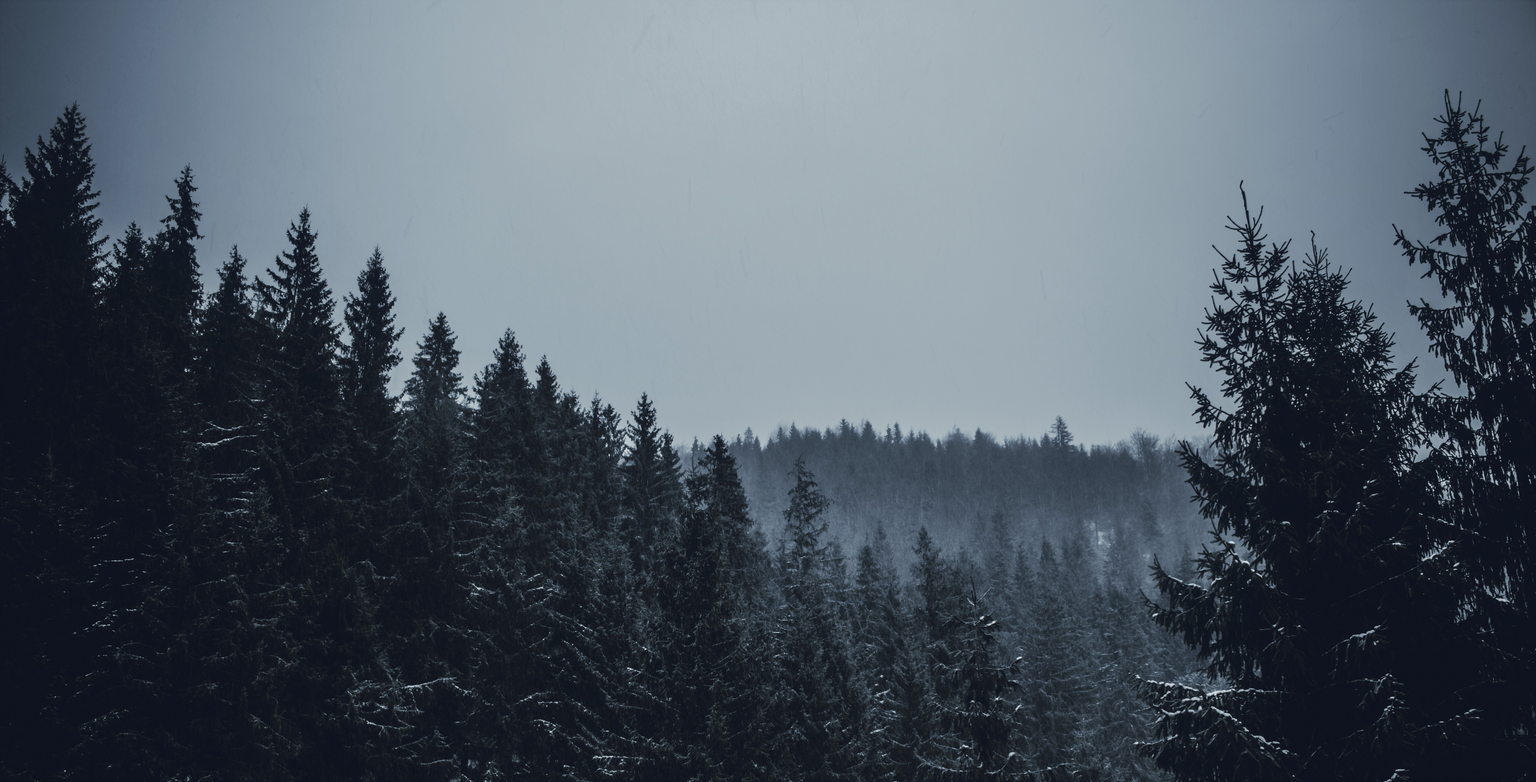
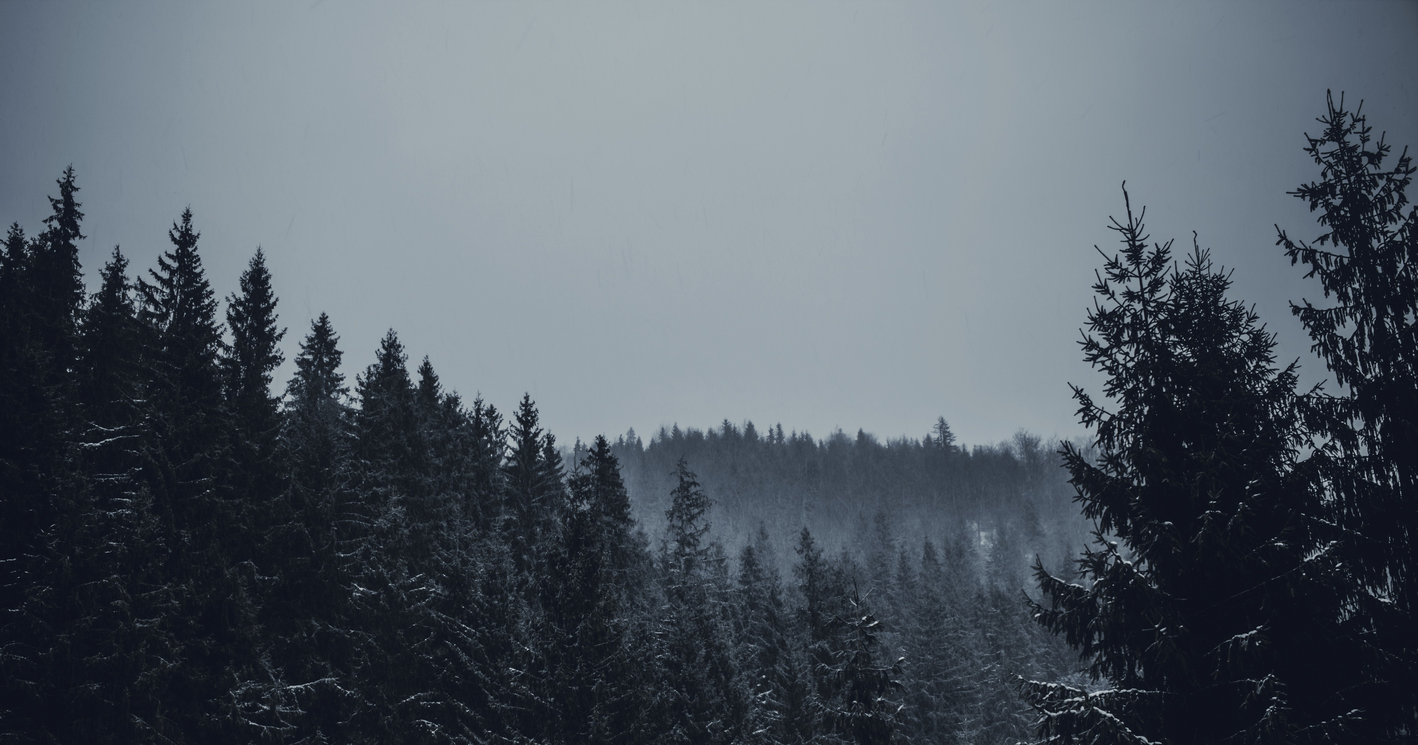
Updated link color scheme

diff --git a/css/grayscale.min.css b/css/grayscale.min.css
@@ -2,4 +2,4 @@
  * Start Bootstrap - Grayscale v4.0.0-beta.2 (https://startbootstrap.com/template-overviews/grayscale)
  * Copyright 2013-2017 Start Bootstrap
  * Licensed under MIT (https://github.com/BlackrockDigital/startbootstrap-grayscale/blob/master/LICENSE)
- */body,html{height:100%;width:100%}#mainNav,body{background-color:#000}#mainNav a,body{color:#fff}.masthead,body,html{width:100%}body{font-family:Lora,'Helvetica Neue',Helvetica,Arial,sans-serif;position:relative;-webkit-tap-highlight-color:rgba(255,255,255,.2)}#mainNav,.btn,h1,h2,h3,h4,h5,h6{font-family:Cabin,'Helvetica Neue',Helvetica,Arial,sans-serif;text-transform:uppercase}h1,h2,h3,h4,h5,h6{font-weight:700;margin:0 0 35px;letter-spacing:1px}p{font-size:16px;line-height:1.5;margin:0 0 25px}@media (min-width:768px){p{font-size:18px;line-height:1.6;margin:0 0 35px}}a{-webkit-transition:all .2s ease-in-out;-moz-transition:all .2s ease-in-out;transition:all .2s ease-in-out;color:#42DCA3}a:focus,a:hover{text-decoration:none;color:#ffff}#mainNav{margin-bottom:0;border-bottom:1px solid rgba(255,255,255,.3)}#mainNav .navbar-nav .nav-item:active,#mainNav .navbar-nav .nav-item:focus,#mainNav .navbar-nav .nav-item:hover{background-color:transparent;outline:0}#mainNav .navbar-toggler{font-size:14px;padding:11px;color:#fff;border:1px solid #fff}#mainNav .navbar-brand{font-weight:700}#mainNav .navbar-nav .nav-item{-webkit-transition:background .3s ease-in-out;-moz-transition:background .3s ease-in-out;transition:background .3s ease-in-out}#mainNav .navbar-nav .nav-item:hover{color:fade(white,80%)}@media (min-width:992px){#mainNav{padding-top:20px;padding-bottom:20px;-webkit-transition:background .3s ease-in-out,padding-top .3s ease-in-out,padding-bottom .3s;-moz-transition:background .3s ease-in-out,padding-top .3s ease-in-out,padding-bottom .3s;transition:background .3s ease-in-out,padding-top .3s ease-in-out,padding-bottom .3s;letter-spacing:1px;border-bottom:none;background:0 0}#mainNav.navbar-shrink{padding-top:10px;padding-bottom:10px;border-bottom:1px solid rgba(255,255,255,.3);background:#000}#mainNav .nav-link.active{outline:0;background-color:rgba(255,255,255,.3)}#mainNav .nav-link.active:hover{color:#fff}}.masthead{display:table;height:auto;padding:200px 0;text-align:center;color:#fff;background:url(../img/fineas-anton-180751.jpg) bottom center no-repeat #000;-webkit-background-size:cover;-moz-background-size:cover;-o-background-size:cover;background-size:cover}.masthead .intro-body{display:table-cell;vertical-align:middle}.masthead .intro-body .brand-heading{font-size:50px}.masthead .intro-body .intro-text{font-size:18px}@media (min-width:768px){.masthead{height:100%;padding:0}.masthead .intro-body .brand-heading{font-size:100px}.masthead .intro-body .intro-text{font-size:22px}}.btn-circle{font-size:26px;width:55px;height:55px;margin-top:15px;line-height:45px;-webkit-transition:background .3s ease-in-out;-moz-transition:background .3s ease-in-out;transition:background .3s ease-in-out;color:#fff;border:2px solid #fff;border-radius:100%!important;background:0 0}.btn-circle:focus,.btn-circle:hover{color:#fff;outline:0;background:rgba(255,255,255,.1)}.content-section{padding-top:150px;padding-bottom:150px}.contact-section{color:#fff;background:url(../img/carl-cerstrand-136807.jpg) center center no-repeat #000;-webkit-background-size:cover;-moz-background-size:cover;-o-background-size:cover;background-size:cover}#map{width:100%;height:300px}@media (min-width:992px){.content-section{padding-top:200px;padding-bottom:200px}#map{height:350px}}.btn{font-weight:400;-webkit-transition:all .3s ease-in-out;-moz-transition:all .3s ease-in-out;transition:all .3s ease-in-out;border-radius:0}.btn-default{color:#42DCA3;border:1px solid #42DCA3;background-color:transparent}.btn-default:focus,.btn-default:hover{color:#000;border:1px solid #42DCA3;outline:0;background-color:#42DCA3}ul.banner-social-buttons{margin-top:0}@media (max-width:1199px){ul.banner-social-buttons{margin-top:15px}}@media (max-width:767px){ul.banner-social-buttons li{display:block;margin-bottom:20px;padding:0}ul.banner-social-buttons li:last-child{margin-bottom:0}}footer{padding:50px 0}footer p{font-size:14px;margin:0}::-moz-selection{background:#fcfcfc;background:rgba(255,255,255,.2);text-shadow:none}::selection{background:#fcfcfc;background:rgba(255,255,255,.2);text-shadow:none}img::selection{background:0 0}img::-moz-selection{background:0 0}
+ */body,html{height:100%;width:100%}#mainNav,body{background-color:#000}#mainNav a,body{color:#fff}.masthead,body,html{width:100%}body{font-family:Lora,'Helvetica Neue',Helvetica,Arial,sans-serif;position:relative;-webkit-tap-highlight-color:rgba(255,255,255,.2)}#mainNav,.btn,h1,h2,h3,h4,h5,h6{font-family:Cabin,'Helvetica Neue',Helvetica,Arial,sans-serif;text-transform:uppercase}h1,h2,h3,h4,h5,h6{font-weight:700;margin:0 0 35px;letter-spacing:1px}p{font-size:16px;line-height:1.5;margin:0 0 25px}@media (min-width:768px){p{font-size:18px;line-height:1.6;margin:0 0 35px}}a{-webkit-transition:all .2s ease-in-out;-moz-transition:all .2s ease-in-out;transition:all .2s ease-in-out;color:#e05031}a:focus,a:hover{text-decoration:none;color:#ffff}b{-webkit-transition:all .2s ease-in-out;-moz-transition:all .2s ease-in-out;transition:all .2s ease-in-out;color:#000;font-size:18px}b:focus,b:hover{text-decoration:none;color:#e05031;font-size:18px}#mainNav{margin-bottom:0;border-bottom:1px solid rgba(255,255,255,.3)}#mainNav .navbar-nav .nav-item:active,#mainNav .navbar-nav .nav-item:focus,#mainNav .navbar-nav .nav-item:hover{background-color:transparent;outline:0}#mainNav .navbar-toggler{font-size:14px;padding:11px;color:#fff;border:1px solid #fff}#mainNav .navbar-brand{font-weight:700}#mainNav .navbar-nav .nav-item{-webkit-transition:background .3s ease-in-out;-moz-transition:background .3s ease-in-out;transition:background .3s ease-in-out}#mainNav .navbar-nav .nav-item:hover{color:fade(white,80%)}@media (min-width:992px){#mainNav{padding-top:20px;padding-bottom:20px;-webkit-transition:background .3s ease-in-out,padding-top .3s ease-in-out,padding-bottom .3s;-moz-transition:background .3s ease-in-out,padding-top .3s ease-in-out,padding-bottom .3s;transition:background .3s ease-in-out,padding-top .3s ease-in-out,padding-bottom .3s;letter-spacing:1px;border-bottom:none;background:0 0}#mainNav.navbar-shrink{padding-top:10px;padding-bottom:10px;border-bottom:1px solid rgba(255,255,255,.3);background:#000}#mainNav .nav-link.active{outline:0;background-color:rgba(255,255,255,.3)}#mainNav .nav-link.active:hover{color:#fff}}.masthead{display:table;height:auto;padding:200px 0;text-align:center;color:#fff;background:url(../img/carl-cerstrand-136807.jpg) bottom center no-repeat #000;-webkit-background-size:cover;-moz-background-size:cover;-o-background-size:cover;background-size:cover}.masthead .intro-body{display:table-cell;vertical-align:middle}.masthead .intro-body .brand-heading{font-size:50px}.masthead .intro-body .intro-text{font-size:18px}@media (min-width:768px){.masthead{height:100%;padding:0}.masthead .intro-body .brand-heading{font-size:100px}.masthead .intro-body .intro-text{font-size:22px}}.btn-circle{font-size:26px;width:55px;height:55px;margin-top:15px;line-height:45px;-webkit-transition:background .3s ease-in-out;-moz-transition:background .3s ease-in-out;transition:background .3s ease-in-out;color:#fff;border:2px solid #fff;border-radius:100%!important;background:0 0}.btn-circle:focus,.btn-circle:hover{color:#fff;outline:0;background:rgba(255,255,255,.1)}.content-section{padding-top:150px;padding-bottom:150px}.contact-section{color:#fff;background:url(../img/fineas-anton-180751.jpg) center center no-repeat #000;-webkit-background-size:cover;-moz-background-size:cover;-o-background-size:cover;background-size:cover}#map{width:100%;height:300px}@media (min-width:992px){.content-section{padding-top:200px;padding-bottom:200px}#map{height:350px}}.btn{font-weight:400;-webkit-transition:all .3s ease-in-out;-moz-transition:all .3s ease-in-out;transition:all .3s ease-in-out;border-radius:0}.btn-default{color:#fff;border:1px solid #000;background-color:#000}.btn-default:focus,.btn-default:hover{color:#fff;border:1px solid #e05031;outline:0;background-color:#e05031}ul.banner-social-buttons{margin-top:0}@media (max-width:1199px){ul.banner-social-buttons{margin-top:15px}}@media (max-width:767px){ul.banner-social-buttons li{display:block;margin-bottom:20px;padding:0}ul.banner-social-buttons li:last-child{margin-bottom:0}}footer{padding:50px 0}footer p{font-size:14px;margin:0}::-moz-selection{background:#fcfcfc;background:rgba(255,255,255,.2);text-shadow:none}::selection{background:#fcfcfc;background:rgba(255,255,255,.2);text-shadow:none}img::selection{background:0 0}img::-moz-selection{background:0 0}

diff --git a/index.html b/index.html
@@ -21,7 +21,7 @@
     <link href='https://fonts.googleapis.com/css?family=Cabin:700' rel='stylesheet' type='text/css'>
 
     <!-- Custom styles for this template -->
-    <link href="css/grayscale.min.css" rel="stylesheet">
+    <link href="css/grayscale.css" rel="stylesheet">
 
   </head>
 
@@ -42,6 +42,9 @@
             </li>
             <li class="nav-item">
               <a class="nav-link js-scroll-trigger" href="#contact">Contact</a>
+            </li>
+            <li class="nav-item">
+              <a class="nav-link js-scroll-trigger" href="Losaunne White_Resume.pdf">Resume</a>
             </li>
             <!-- <li class="nav-item">
               <a class="nav-link js-scroll-trigger" href="#blog">Blog</a>
@@ -83,6 +86,19 @@
       </div>
     </section>
 
+    <!-- <section id="toolkit" class="content-section text-center">
+      <div class="container">
+        <div class="row">
+          <div class="col-lg-8 mx-auto">
+            <h2>About</h2>
+            <p>Currently working as a marketing analyst at Backcountry.com, I'm interested in answering interesting, difficult problems with a data-driven approach.
+                With my background in math and computer science, and my newly acquired fascination with large datasets, I'm a valuable resource for anyone looking to gather insights
+                and make decisions from data. Find my full resume <a href="Losaunne White_Resume.pdf">here</a>.</p>
+          </div>
+        </div>
+      </div>
+    </section> -->
+
     <!-- want to add a toolkit, as well as a blog section -->
 
     <!-- Contact Section -->
@@ -90,7 +106,7 @@
       <div class="container">
         <div class="col-lg-8 mx-auto">
           <h2>Get in touch</h2>
-          <a href="mailto:losaunne.white@gmail.com">losaunne.white@gmail.com</a>
+          <b href="mailto:losaunne.white@gmail.com">losaunne.white@gmail.com</b>
           <ul class="list-inline banner-social-buttons">
             <li class="list-inline-item">
               <a href="https://www.linkedin.com/in/losaunne-white/" class="btn btn-default btn-lg">
@@ -147,7 +163,7 @@
     <!-- Footer -->
     <footer>
       <div class="container text-center">
-        <!-- <p>Copyright &copy; losaunne 2017</p> -->
+        <p>updated december 2017</p>
       </div>
     </footer>
 

diff --git a/css/grayscale.css b/css/grayscale.css
@@ -41,10 +41,21 @@ a {
   -webkit-transition: all 0.2s ease-in-out;
   -moz-transition: all 0.2s ease-in-out;
   transition: all 0.2s ease-in-out;
-  color: #42DCA3; }
+  color: #e05031; }
   a:focus, a:hover {
     text-decoration: none;
     color: #ffff; }
+
+b {
+  -webkit-transition: all 0.2s ease-in-out;
+  -moz-transition: all 0.2s ease-in-out;
+  transition: all 0.2s ease-in-out;
+  color: black;
+  font-size: 18px; }
+  b:focus, b:hover {
+    text-decoration: none;
+    color: #e05031;
+    font-size: 18px; }
 
 #mainNav {
   font-family: 'Cabin', 'Helvetica Neue', Helvetica, Arial, sans-serif;
@@ -100,7 +111,7 @@ a {
   padding: 200px 0;
   text-align: center;
   color: white;
-  background: url("../img/fineas-anton-180751.jpg") no-repeat bottom center scroll;
+  background: url("../img/carl-cerstrand-136807.jpg") no-repeat bottom center scroll;
   background-color: black;
   -webkit-background-size: cover;
   -moz-background-size: cover;
@@ -146,7 +157,7 @@ a {
 
 .contact-section {
   color: white;
-  background: url("../img/carl-cerstrand-136807.jpg") no-repeat center center scroll;
+  background: url("../img/fineas-anton-180751.jpg") no-repeat center center scroll;
   background-color: black;
   -webkit-background-size: cover;
   -moz-background-size: cover;
@@ -174,14 +185,14 @@ a {
   border-radius: 0; }
 
 .btn-default {
-  color: #42DCA3;
-  border: 1px solid #42DCA3;
-  background-color: transparent; }
+  color: white;
+  border: 1px solid black;
+  background-color: black; }
   .btn-default:focus, .btn-default:hover {
-    color: black;
-    border: 1px solid #42DCA3;
+    color: white;
+    border: 1px solid #e05031;
     outline: none;
-    background-color: #42DCA3; }
+    background-color: #e05031; }
 
 ul.banner-social-buttons {
   margin-top: 0; }
